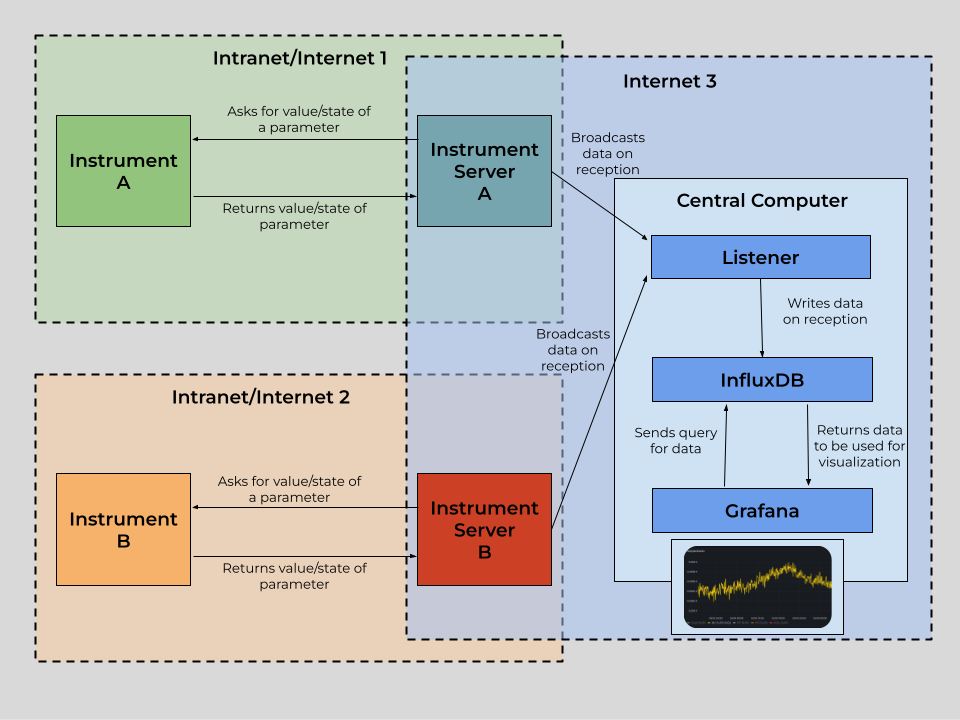
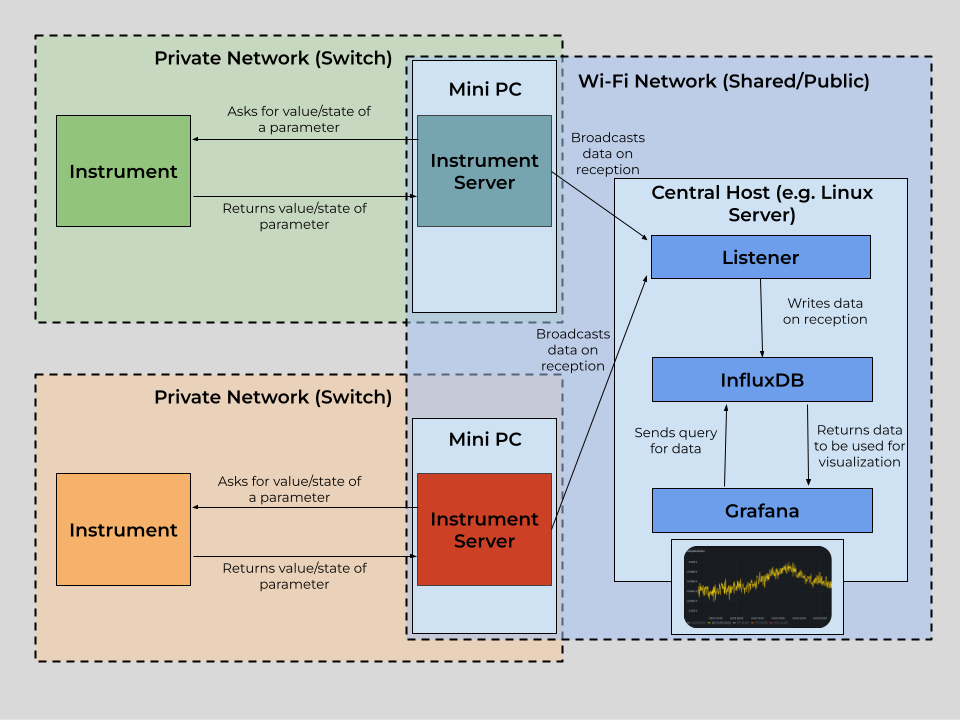
added quick start guide

diff --git a/docs/instruments/instrumentmonitoring.md b/docs/instruments/instrumentmonitoring.md
@@ -1,13 +1,9 @@
 # Instrument Monitoring
 
-The following is a guide to set up instrument montioring for various parameters associated with instrument(s). It contains capabilities for data storage, data visualization, and real-time alerts. More information on the tool is provided in the next section.
+The following is a guide to set up a dashboard for the monitoring of instruments. It contains capabilities for data storage, data visualization, and real-time alerts. More information on the tool is provided in the next section.
 
 !!! Note
-    The following guide assumes the user has:
-    - instrumentserver installed and has basic familiarity with it and using config files
-    - labcore installed
-    - basic familiarity with Docker
-    - a basic understanding of what Grafana and InfluxDB are
+    The following guide assumes the user has the instrumentserver installed and has basic familiarity with it and using config files, labcore installed, basic familiarity with Docker, and a basic understanding of what Grafana and InfluxDB are
 
 ## Overview
 
@@ -15,9 +11,11 @@ This tool is designed to be able to facilitate the monitoring of instruments. It
 
 ![Overview](img/instrumentmonitoring.png)
 
+Above is a diagram showcasing the architecture for a dashboard for the monitoring of two separate instruments. The architecture consists of two PCs that communicate with the instrument using qCoDeS, which broadcast the data they receive to a central computer where the dashboard is hosted.
+
 [Docker](#docker)
 
-Docker is the service used to host Grafana and InfluxDB locally. Both services have a server that runs inside of a Docker container on your internet-connected device, and will be accessible through the network the computer is connected to. Both Influx and Grafana will be accessible with an internet connection to the computer running Docker.
+Docker is the service used to host Grafana and InfluxDB locally. Both of the services have a server that runs inside of a Docker container on your internet-connected device, and will be accessible through the network the computer is connected to. Both Influx and Grafana will be accessible with an internet connection to the computer running Docker.
 
 [Grafana](#grafana)
 
@@ -33,27 +31,56 @@ Below is a sample alert send out by Grafana on Slack. The alert notifies that a 
 
 [InfluxDB](#influxdb)
 
-InfluxDB is the database used to store data fetched from instruments. It stores the data in time-series format (data with a time). It can then be accessed by Grafana in order to construct time-series plots of the various parameters in the database (as shown above).
+InfluxDB is the database used to store data fetched from instruments. It stores the data in time-series format (each data point has a time). It can then be accessed by Grafana in order to construct time-series plots of the various parameters in the database (as shown above).
 
 InfluxDB should be hosted on the same device as Grafana. It will also be in a Docker container. (again, more on that later)
 
 [The Instrumentserver](#the-instrumentserver)
 
-The instrumentserver is ran on a computer that can talk with your instrument through a network connection. The instrumentserver will ask your instrument for the data you specify, which will then be sent back to the instrumentserver by the instrument.
+The instrumentserver runs on a computer that can talk with your instrument through a network connection. The instrumentserver will ask your instrument for the data you specify, which will then be sent back to the instrumentserver by the instrument.
 
-Based on a yaml file, the instrumentserver can then ask for the correct data from the instrument and broadcast it to the internet (to be used for visualizations).
+Based on a yaml config file, the instrumentserver can then ask for the correct data from the instrument and broadcast it to the internet (to be used for visualizations).
 
-How to set up the instrumentserver to get the data you want:
-In the instrumentserver, for each instrument, the user provides a list of parameters to get values or states from, and a secondary field - polling rates. The polling rate for each parameter is how often the instrument server will ask for the value or state of the paramter.
+In the instrumentserver, for each instrument, the user provides a list of parameters to get values or states from, with a corresponding rate (in seconds) for how often to poll the parameter.
 
 [The Listener](#the-listener)
 
-The listener is ran on the same computer that is running the Docker containers for Grafana and InfluxDB. It listens for the internet broadcasts from the instrumentserver, and then writes the data to the InfluxDB database. The listener can also be configured to write to a CSV file, however InfluxDB is recommended.
+The listener is ran on the same computer that is running the Docker containers for Grafana and InfluxDB. It subscribes to the broadcasts from the instrumentservers, and then writes the data to the InfluxDB database. The listener can also be configured to write to a CSV file, however InfluxDB is recommended.
 
 !!! Note
-    The following portion assumes the user has:
-    - instrumentserver installed and has basic familiarity with it and using config files
-    - labcore installed
+    The following portion assumes the user has the instrumentserver installed and labcore installed.
+
+## Quick Start Guide
+
+This section is a guide to quickly set up an instrument monitoring dashboard for an arbitrary number of instruments.
+
+### Step 1: Instrumentserver setup
+
+First, locate or create a qCoDeS driver for your instrument. Also, make sure the instrument is connected to some sort of network (generally a switch), and find its IP address on the private network. Also, locate the correct port to communicate with the instrument (generally found in the manual for the instrument).
+
+Once you have all of this information, set up a PC (windows, linux, etc.) that is connected to the same network (switch) as the instrument you want to monitor. Install the instrumentserver and labcore on this PC.
+
+Decide on a port you want to broadcast data through on the PC. Then create a config file for the instrumentserver using the above qCoDeS driver, ports, etc. Check out the section for the instrumentserver [config file](#config-file).
+
+Then, start the instrumentserver. See [starting the instrumentserver](#starting-the-instrument-server).
+
+### Step 2: InfluxDB and Grafana
+
+Set up a PC that you would like to host the dashboard on. Install labcore and the instrumentserver on this PC.
+Install docker and start the docker engine. Follow the [docker section](#docker) to set up a docker compose file. Make sure that InfluxDB and Grafana are able to be accessed.
+
+### Step 3: The Listener
+
+ On the same PC that Grafana and Influx were started on:
+ 
+ Keep track of the address and port that the instrumentserver is broadcasting to in the previous section. Use this information, the information you used to set up InfluxDB, plus the parameters you want to monitor to fill out the [config file](#config-file-1).
+
+You can then [start the listener](#starting-the-listener).
+
+### Step 4: Grafana Customization
+
+If the previous steps were done correctly with no issues, the Influx database should start to be populated. Then, one can follow the guide at https://grafana.com/grafana/dashboards/ in order to create a dashboard using InfluxDB as data source. The grafana documentation also has guides on setting up alerting to Slack and other services.
+
 
 ## The Instrumentserver
 
@@ -96,24 +123,26 @@ networking:
 ```
 
 
-As usual, we declare an instrument for the fridge. For the driver, use the following from labcore if using an Oxford Fridge:
+As usual, we declare an qCoDeS instrument. In this case we are using an Oxford Triton Dilution Refrigerator. The driver for this instrument is in labcore:
 
 ```
 labcore.instruments.qcodes_drivers.Oxford.triton.OxfordTriton
 ```
 
-`address`: fill out the field with the IPv4 address of the fridge computer (on the same network as the computer you are running the instrumentserver on)
+In general, one can find a community-made driver (if it exists), or create one.
+
+`address`: fill out the field with the IPv4 address of the instrument (on the same network as the computer you are running the instrumentserver on)
 
 `init`: there are two items that must be filled out:
 
-`port`: From the manual of the fridge being used, provide the port on the fridge computer to communicate with. (For Oxford Triton, this port is `33576`). 
-
-`temp_channel_mapping`: Create a dictionary containing the mapping between name and temperature channel for each channel you would like a named parameter for. In the provided config, 7 Temperature Channels are used to create named parameters. Channels can be found on the Lakeshore thermometry dialog on the fridge computer.
+`port`: From the manual of the instrument being used, provide the port to communicate with. (For Oxford Triton, this port is `33576`).
 
 `pollingRate`: provide a dictionary for how often to poll each parameter given. For each parameter that you wish to fetch data for, add it as a new line in the dictionary, followed by the interval (in seconds) to fetch it.
 
 `networking`: For the dashboard, only one field is required, `externalBroadcast`. Locate the IPv4 address of the computer you are running the instrumentserver on for the internet network you wish to broadcast the data to. Include the port to broadcast to as well.
 
+Specific to Oxford Triton (from the driver):
+`temp_channel_mapping`: Create a dictionary containing the mapping between name and temperature channel for each channel you would like a named parameter for. In the provided config, 7 Temperature Channels are used to create named parameters. Channels can be found on the Lakeshore thermometry dialog on the fridge computer.
 
 ### Starting the Instrument Server
 
@@ -124,7 +153,7 @@ Use the following to start the instrumentserver. Replace serverConfig.yml with t
 $ instrumentserver -c serverConfig.yml --gui False
 ```
 
-You should start the instrumentserver using the above commmand in no GUI mode first. Then, you can use the following detached mode if you wish to use the GUI:
+You should start the instrumentserver using the above commmand in no GUI mode first (to improve stability). Then, you can use the following detached mode if you wish to use the GUI:
 
 ```bash
 $ instrumentserver-detached
@@ -148,7 +177,7 @@ Below is an example listener configuration file that can be used for the dashboa
 addresses: ["tcp://128.174.123.123:6000","tcp://128.174.456.456:6000","tcp://128.174.789.789:6000"]
 
 # list of parameters to listen for, if empty, will listen for all broadcasts
-paramDict: {"fridge_nh":[],"fridge_dt":[],"fridge_kk":[]}
+params: []
 
 # path to write data to for the CSV listener
 csv_path: C:\Users\jmnol\OneDrive\Documents\InstrumentServerData\data.csv
@@ -176,9 +205,9 @@ measurementNameDict: {"fridge_nh":"niflheim_telemetry","fridge_kk":"kelvin_klein
 
 `addresses`: List of addresses of where to subscribe to broadcasts from. These are the addresses on the network of the computer running the instrumentserver
 
-`paramDict`: Dictionary containing the list of parameters to listen for for each instrument. If the list for an instrument is empty, the listener will listen for all broadcasts from that instrument.
+`params`: List of all parameters to listen for, if empty, the listener will listen to all broadcasts
 
-`type`: "Influx" or "CSV"
+`type`: "Influx"
 
 `token`: Token to write to InfluxDB. (Created when setting up Influx)
 
@@ -198,7 +227,7 @@ measurementNameDict: {"fridge_nh":"niflheim_telemetry","fridge_kk":"kelvin_klein
 
 `csv_path`: Path of the csv file to write data to. A CSV file doesn't need to exist at the path as the listener will create one if one does not exist.
 
-`type`: "Influx" or "CSV"
+`type`: "CSV"
 
 ### Starting the Listener
 
@@ -227,9 +256,7 @@ $ kill -15 {INSERT ID}
 ```
 
 !!! Note
-    The following portion assumes the user has:
-    - Docker Engine installed
-    - Basic familiarity with Docker
+    The following portion assumes the user has the Docker Engine installed and basic familiarity with Docker
 
 ## Docker
 
@@ -370,3 +397,31 @@ from(bucket: "bucket1")
 The above query will display parameters in bucket1 with fields "measurement" being "measurement1", "field" being "value", and name being "param1" or "param2".
 
 When creating your panel, select "Time Series" in Grafana.
+
+More information on creating dashboards can be found on the grafana documentation page: https://grafana.com/docs/grafana/latest/dashboards/.
+
+Also, information on setting up Slack alerts can also be found there.
+
+Here is a sample Alert template:
+
+```go
+{{ define "general.message" }}
+{{ if or (gt (len .Alerts.Firing) 0) (gt (len .Alerts.Resolved) 0) }}
+{{ if gt (len .Alerts.Firing) 0 }}
+{{ range .Alerts.Firing }}
+- **Alert Name:** {{ .Labels.alertname }}
+- **Description:** {{ .Annotations.summary }}
+{{ end }}
+{{ end }}
+
+{{ if gt (len .Alerts.Resolved) 0 }}
+{{ range .Alerts.Resolved }}
+- **Alert Name:** {{ .Labels.alertname }}
+- **Description:** {{ .Annotations.summary }}
+{{ end }}
+{{ end }}
+{{ else }}
+No alerts to display.
+{{ end }}
+{{ end }}
+```
